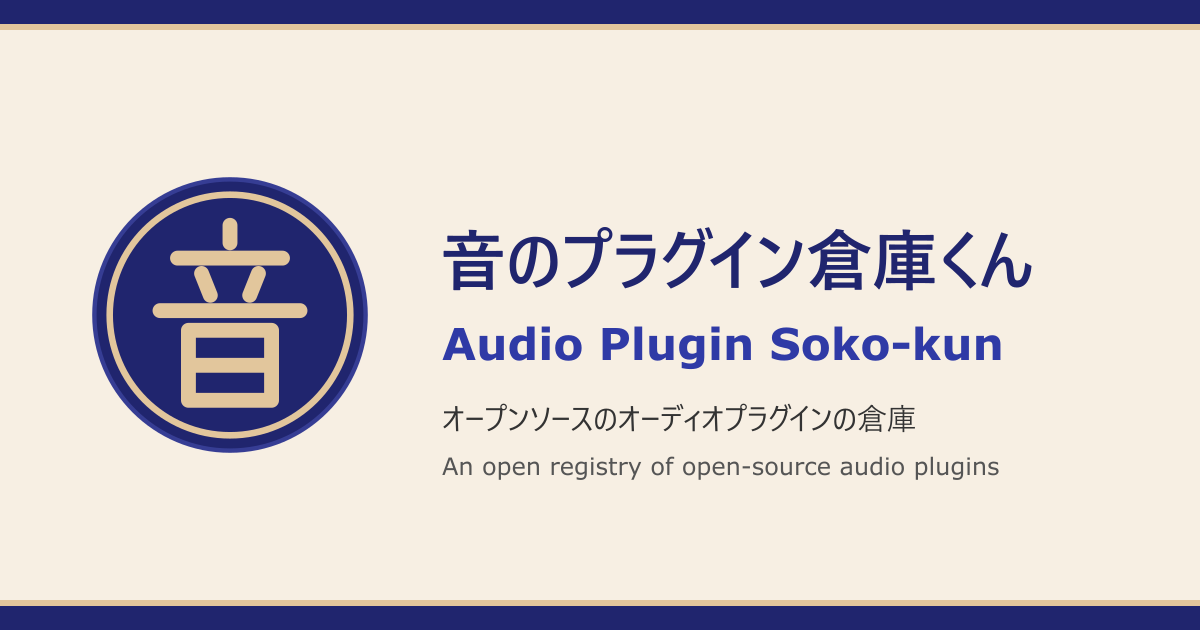
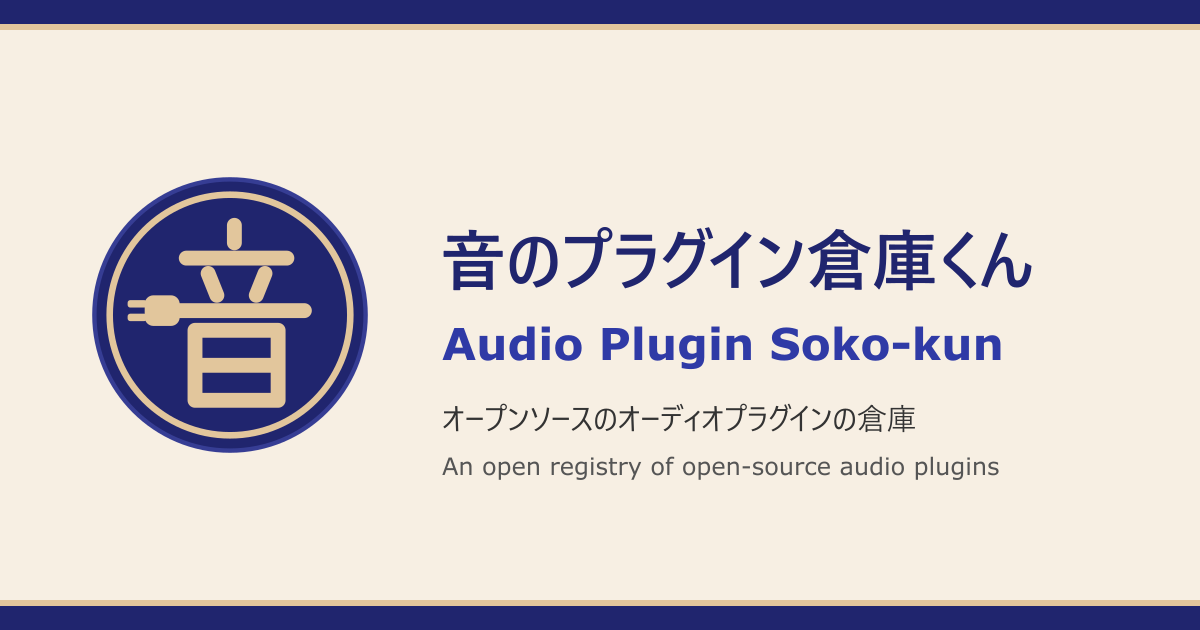
サービスのロゴを、横線の左端をプラグの形にした「音」のバッジにする
依頼者が 3 案から選んだ案 A。配信プラグイン倉庫くんのロゴと同じ作りにした。
logo.png と og.png を作るスクリプトを scripts/render-images.cjs に置いた。

diff --git a/src/web/logo.ts b/src/web/logo.ts
@@ -1,12 +1,16 @@
 // サービスのロゴ (docs/design/ui.md の「サービスのロゴ」)。上部の帯とファビコンに使う。
-// 丸いバッジに、図形で描いた「音」の字を置く。字形を図形で描くのは、閲覧環境のフォントに左右されないため。
-// VST Compatible ロゴと VST の語は含めない (ADR 0004)。public/logo.png と public/og.png はこの図形から作る。
+// 丸いバッジに、図形で描いた「音」の字を置き、長い横線の左端をプラグの形にする。配信プラグイン倉庫くんのロゴと同じ作り。
+// 字形を図形で描くのは、閲覧環境のフォントに左右されないため。
+// VST Compatible ロゴと VST の語は含めない (ADR 0004)。public/logo.png と public/og.png は scripts/render-images.cjs でこの図形から作る。
 export const LOGO_SVG = `<svg xmlns="http://www.w3.org/2000/svg" viewBox="0 0 64 64" role="img" aria-label="音のプラグイン倉庫くん">
   <circle cx="32" cy="32" r="31" fill="#20256e" stroke="#363d94" stroke-width="1"/>
   <circle cx="32" cy="32" r="27.5" fill="none" stroke="#e2c69c" stroke-width="1.5"/>
-  <path d="M32 11.5 V15.5 M20 19 H44 M25.5 22.5 L27.5 27.5 M38.5 22.5 L36.5 27.5 M16 31 H48 M22.5 35.5 H41.5 V51.5 H22.5 Z M22.5 43.5 H41.5" fill="none" stroke="#e2c69c" stroke-width="3.4" stroke-linecap="round" stroke-linejoin="round"/>
+  <path d="M33 11.5 V15.5 M22 19 H45 M27 22.5 L29 27.5 M40 22.5 L38 27.5 M20 31 H49 M24 35.5 H43 V51.5 H24 Z M24 43.5 H43" fill="none" stroke="#e2c69c" stroke-width="3.4" stroke-linecap="round" stroke-linejoin="round"/>
+  <rect x="12.5" y="27.5" width="8" height="7" rx="2" fill="#e2c69c"/>
+  <rect x="8.6" y="28.6" width="4.4" height="1.7" rx=".6" fill="#e2c69c"/>
+  <rect x="8.6" y="31.7" width="4.4" height="1.7" rx=".6" fill="#e2c69c"/>
 </svg>
 `;
 
 // URL のクエリに付け、ロゴが変わったときに閲覧者のキャッシュを使わせない。LOGO_SVG の SHA-256 の先頭 8 桁。
-export const LOGO_VERSION = 'c475b854';
+export const LOGO_VERSION = '1c873d29';

diff --git a/src/web/layout.tsx b/src/web/layout.tsx
@@ -6,7 +6,7 @@ import { LOGO_VERSION } from './logo';
 import { STYLE_VERSION } from './style';
 
 // public/og.png の SHA-256 の先頭 8 桁。URL のクエリに付け、画像が変わったときに閲覧者のキャッシュを使わせない。
-const OG_VERSION = '0ac36b70';
+const OG_VERSION = '5a89d266';
 
 export interface PageMeta {
   lang: Lang;
